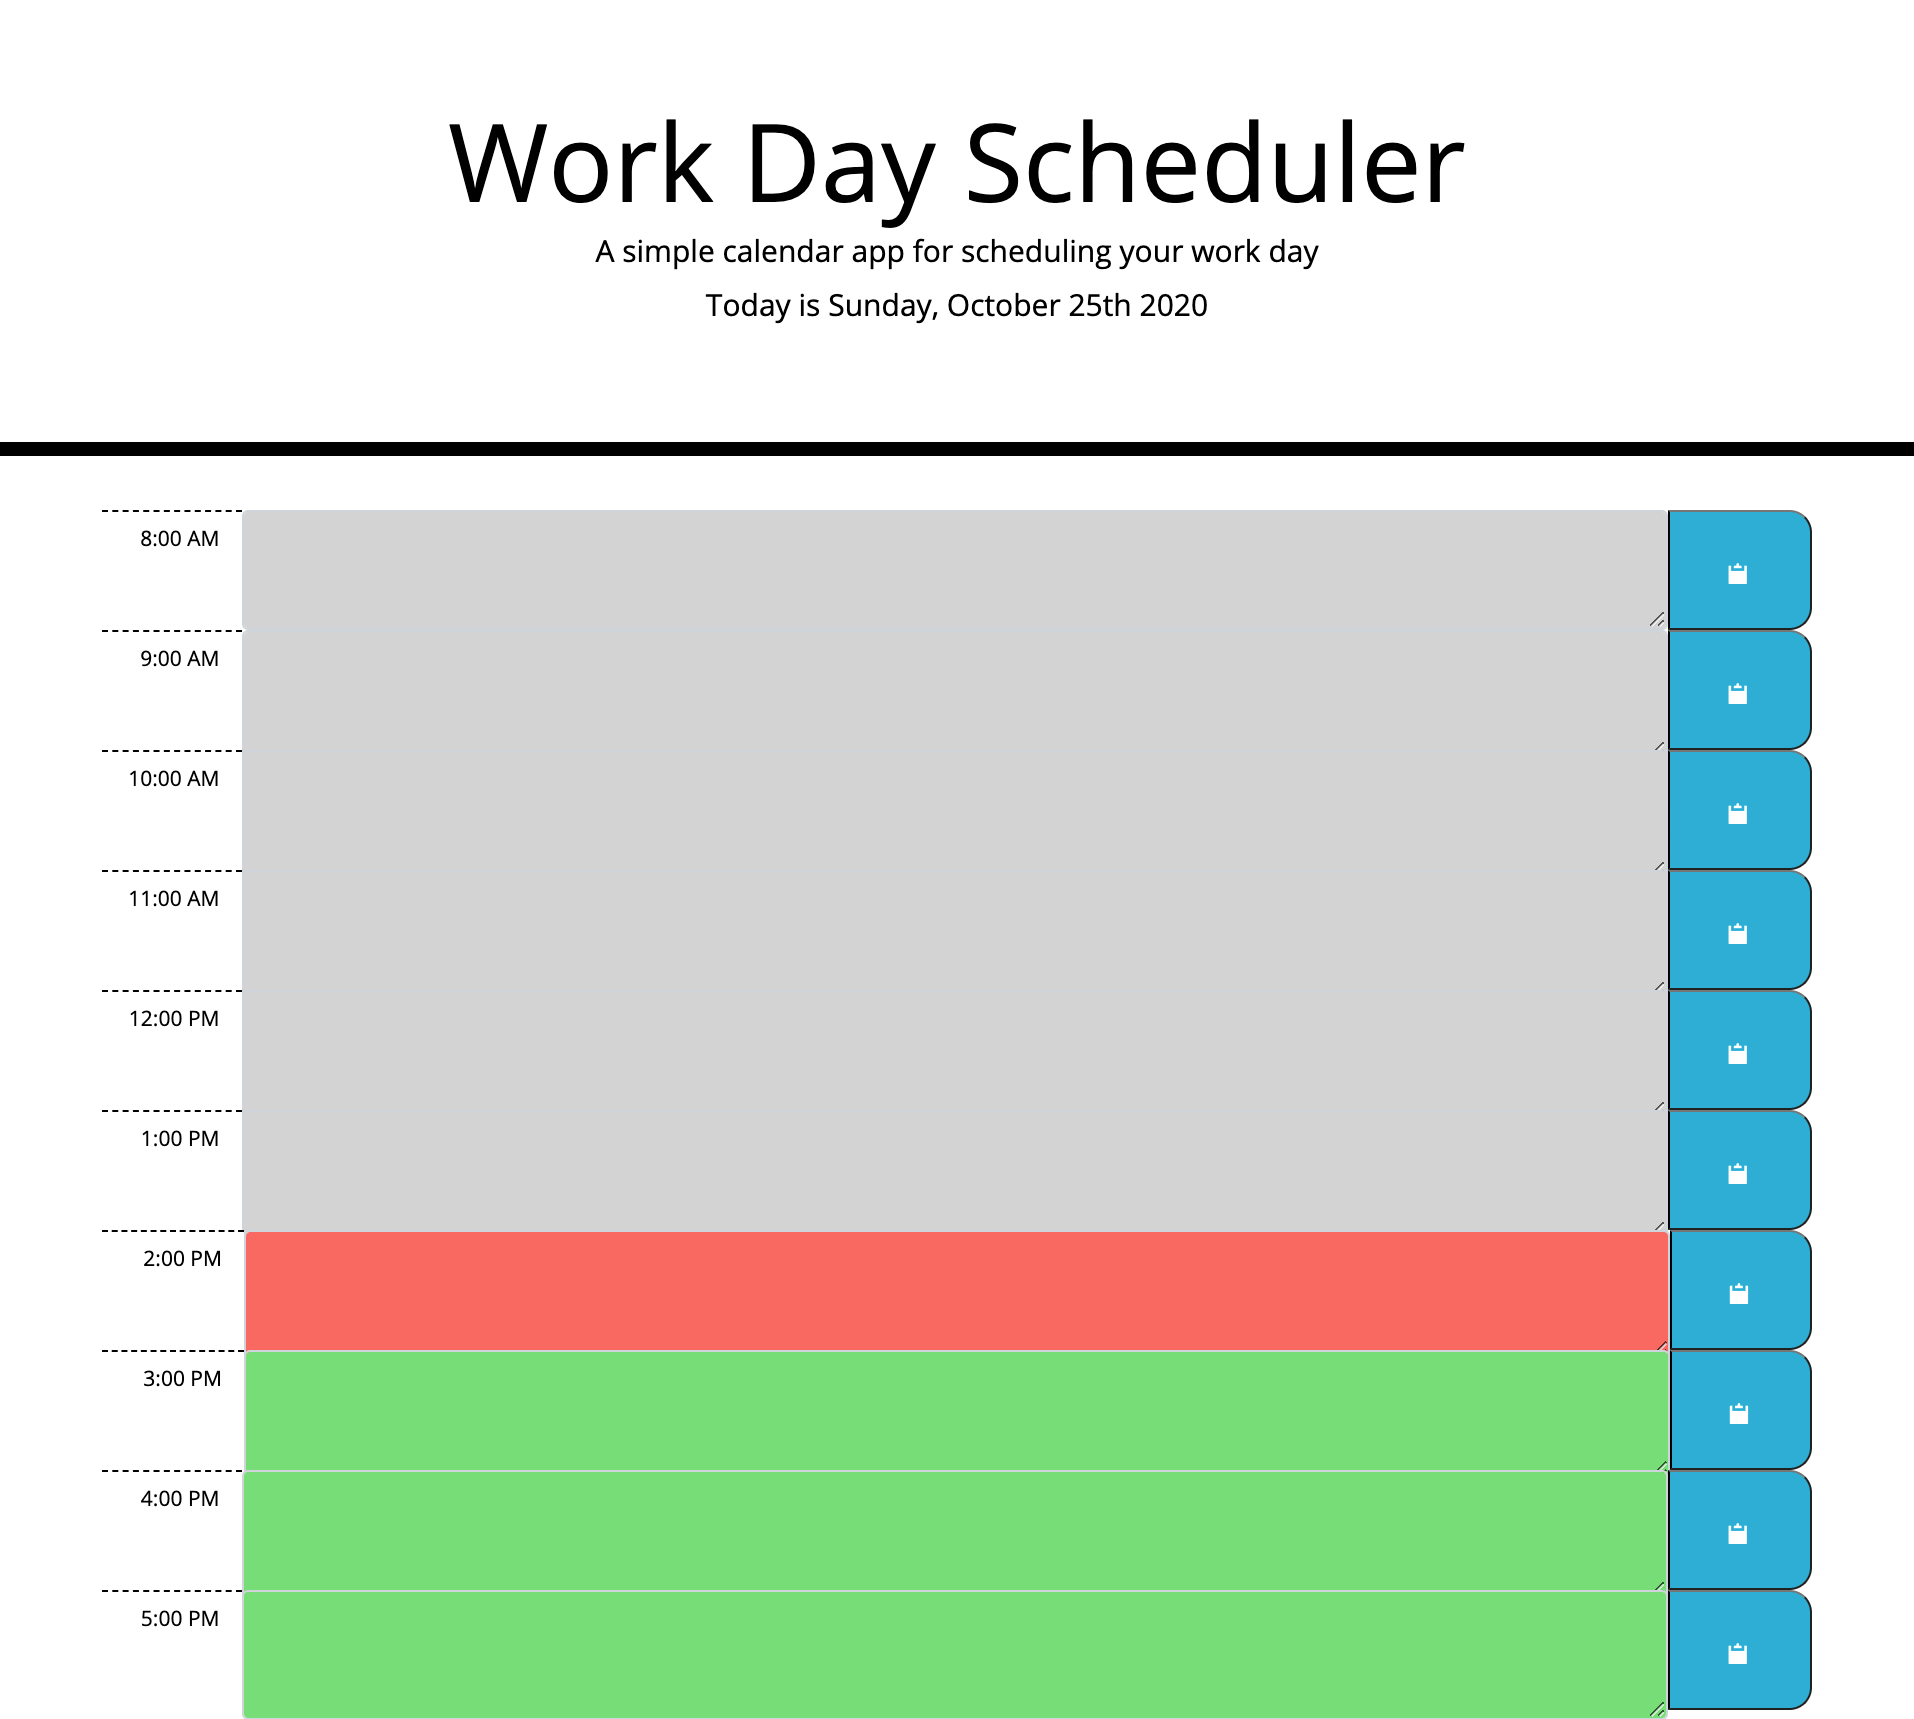
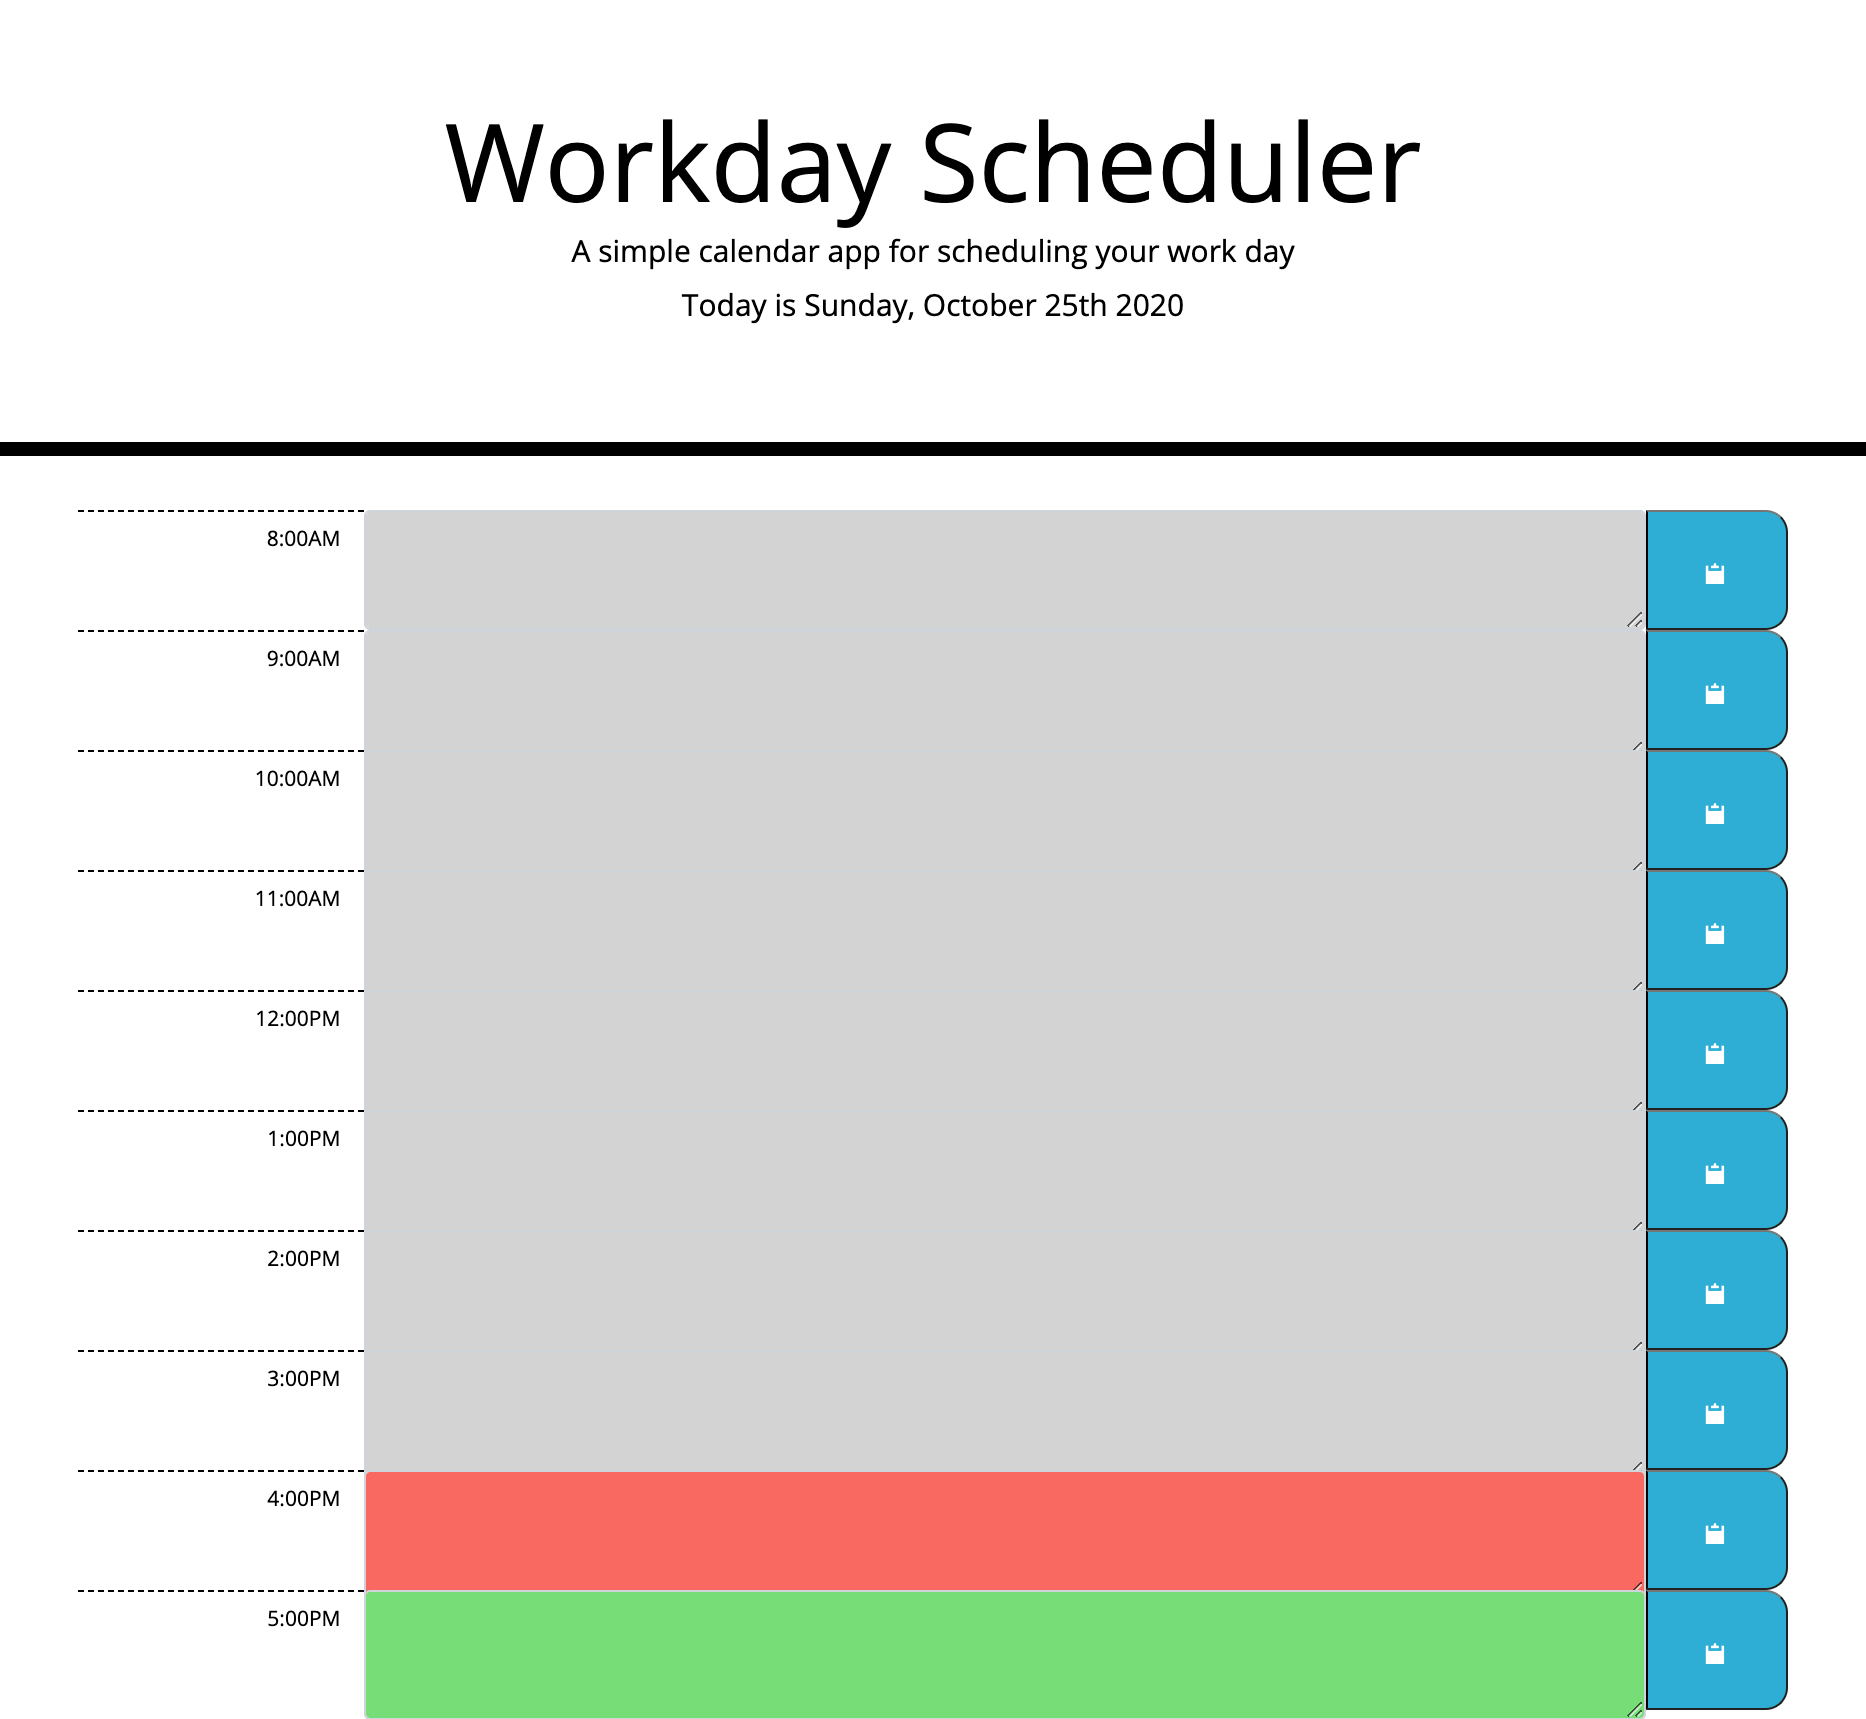
updated responsive settings

Changed region(s): [[0.0622, 0.2775, 0.9636, 1.0], [0.2176, 0.0617, 0.7771, 0.185]]

diff --git a/index.html b/index.html
@@ -25,54 +25,54 @@
 
   <div class="container">
     <div class="row">
-      <div class="col hour" id="eightOclock"></div>
-      <textarea id="eight" class="form-control col-10 description eightOclock"></textarea>
-      <button onclick="saveEight()" class="col saveBtn"><span class="oi oi-clipboard "></span></button>
+      <div class="col-3 col-md-2 hour" id="eightOclock"></div>
+      <textarea id="eight" class="form-control col-7 col-md-9 description eightOclock"></textarea>
+      <button onclick="saveEight()" class="col-2 col-md-1 saveBtn"><span class="oi oi-clipboard "></span></button>
     </div>
     <div class="row">
-      <div class="col hour" id="nineOclock"></div>
-      <textarea id="nine" rows="3" class="form-control col-10 description nineOclock"></textarea>
-      <button onclick="saveNine()" class="col saveBtn"><span class="oi oi-clipboard "></span></button>
+      <div class="col-3 col-md-2 hour" id="nineOclock"></div>
+      <textarea id="nine" rows="3" class="form-control col-7 col-md-9 description nineOclock"></textarea>
+      <button onclick="saveNine()" class="col-2 col-md-1 saveBtn"><span class="oi oi-clipboard "></span></button>
     </div>
     <div class="row">
-      <div class="col hour" id="tenOclock"></div>
-      <textarea id="ten" rows="3" class="form-control col-10 description tenOclock"></textarea>
-      <button onclick="saveTen()" class="col saveBtn"><span class="oi oi-clipboard "></span></button>
+      <div class="col-3 col-md-2 hour" id="tenOclock"></div>
+      <textarea id="ten" rows="3" class="form-control col-7 col-md-9 description tenOclock"></textarea>
+      <button onclick="saveTen()" class="col-2 col-md-1 saveBtn"><span class="oi oi-clipboard "></span></button>
     </div>
     <div class="row">
-      <div class="col hour" id="elevenOclock"></div>
-      <textarea id="eleven" rows="3" class="form-control col-10 description elevenOclock"></textarea>
-      <button onclick="saveEleven()" class="col saveBtn"><span class="oi oi-clipboard "></span></button>
+      <div class="col-3 col-md-2 hour" id="elevenOclock"></div>
+      <textarea id="eleven" rows="3" class="form-control col-7 col-md-9 description elevenOclock"></textarea>
+      <button onclick="saveEleven()" class="col-2 col-md-1 saveBtn"><span class="oi oi-clipboard "></span></button>
     </div>
     <div class="row">
-      <div class="col hour" id="twelveOclock"></div>
-      <textarea id="twelve" rows="3" class="form-control col-10 description twelveOclock"></textarea>
-      <button onclick="saveTwelve()" class="col saveBtn"><span class="oi oi-clipboard "></span></button>
+      <div class="col-3 col-md-2 hour" id="twelveOclock"></div>
+      <textarea id="twelve" rows="3" class="form-control col-7 col-md-9 description twelveOclock"></textarea>
+      <button onclick="saveTwelve()" class="col-2 col-md-1 saveBtn"><span class="oi oi-clipboard "></span></button>
     </div>
     <div class="row">
-      <div class="col hour" id="oneOclock"></div>
-      <textarea id="one" rows="3" class="form-control col-10 description oneOclock"></textarea>
-      <button onclick="saveOne()" class="col saveBtn"><span class="oi oi-clipboard "></span></button>
+      <div class="col-3 col-md-2 hour" id="oneOclock"></div>
+      <textarea id="one" rows="3" class="form-control col-7 col-md-9 description oneOclock"></textarea>
+      <button onclick="saveOne()" class="col-2 col-md-1 saveBtn"><span class="oi oi-clipboard "></span></button>
     </div>
     <div class="row">
-      <div class="col-1 hour" id="twoOclock"></div>
-      <textarea id="two" rows="3" class="form-control col-10 description twoOclock"></textarea>
-      <button onclick="saveTwo()" class="col saveBtn"><span class="oi oi-clipboard "></span></button>
+      <div class="col-3 col-md-2 hour" id="twoOclock"></div>
+      <textarea id="two" rows="3" class="form-control col-7 col-md-9 description twoOclock"></textarea>
+      <button onclick="saveTwo()" class="col-2 col-md-1 saveBtn"><span class="oi oi-clipboard "></span></button>
     </div>
     <div class="row">
-      <div class="col-1 hour" id="threeOclock"></div>
-      <textarea id="three" rows="3" class="form-control col-10 description threeOclock"></textarea>
-      <button onclick="saveThree()" class="col saveBtn"><span class="oi oi-clipboard "></span></button>
+      <div class="col-3 col-md-2 hour" id="threeOclock"></div>
+      <textarea id="three" rows="3" class="form-control col-7 col-md-9 description threeOclock"></textarea>
+      <button onclick="saveThree()" class="col-2 col-md-1 saveBtn"><span class="oi oi-clipboard "></span></button>
     </div>
     <div class="row">
-      <div class="col hour" id="fourOclock"></div>
-      <textarea id="four" rows="3" class="form-control col-10 description fourOclock"></textarea>
-      <button onclick="saveFour()" class="col saveBtn"><span class="oi oi-clipboard "></span></button>
+      <div class="col-3 col-md-2 hour" id="fourOclock"></div>
+      <textarea id="four" rows="3" class="form-control col-7 col-md-9 description fourOclock"></textarea>
+      <button onclick="saveFour()" class="col-2 col-md-1 saveBtn"><span class="oi oi-clipboard "></span></button>
     </div>
     <div class="row">
-      <div class="col hour" id="fiveOclock"></div>
-      <textarea id="five" rows="3" class="form-control col-10 description fiveOclock"></textarea>
-      <button onclick="saveFive()" class="col saveBtn"><span class="oi oi-clipboard "></span></button>
+      <div class="col-3 col-md-2 hour" id="fiveOclock"></div>
+      <textarea id="five" rows="3" class="form-control col-7 col-md-9 description fiveOclock"></textarea>
+      <button onclick="saveFive()" class="col-2 col-md-1 saveBtn"><span class="oi oi-clipboard "></span></button>
     </div>
   </div>
 

diff --git a/assets/script.js b/assets/script.js
@@ -4,16 +4,16 @@ currentDay = $("#currentDay")
 
 
 // set timestamps
-var eightTimestamp = $("#eightOclock").text(moment().hour(8).minute(0).format("h:mm A"));
-var nineTimestamp = $("#nineOclock").text(moment().hour(9).minute(0).format("h:mm A"));
-var tenTimestamp = $("#tenOclock").text(moment().hour(10).minute(0).format("h:mm A"));
-var elevenTimestamp = $("#elevenOclock").text(moment().hour(11).minute(0).format("h:mm A"));
-var twelveTimestamp = $("#twelveOclock").text(moment().hour(12).minute(0).format("h:mm A"));
-var oneTimestamp = $("#oneOclock").text(moment().hour(13).minute(0).format("h:mm A"));
-var twoTimestamp = $("#twoOclock").text(moment().hour(14).minute(0).format("h:mm A"));
-var threeTimestamp = $("#threeOclock").text(moment().hour(15).minute(0).format("h:mm A"));
-var fourTimestamp = $("#fourOclock").text(moment().hour(16).minute(0).format("h:mm A"));
-var fiveTimestamp = $("#fiveOclock").text(moment().hour(17).minute(0).format("h:mm A"));
+var eightTimestamp = $("#eightOclock").text(moment().hour(8).minute(0).format("h:mmA"));
+var nineTimestamp = $("#nineOclock").text(moment().hour(9).minute(0).format("h:mmA"));
+var tenTimestamp = $("#tenOclock").text(moment().hour(10).minute(0).format("h:mmA"));
+var elevenTimestamp = $("#elevenOclock").text(moment().hour(11).minute(0).format("h:mmA"));
+var twelveTimestamp = $("#twelveOclock").text(moment().hour(12).minute(0).format("h:mmA"));
+var oneTimestamp = $("#oneOclock").text(moment().hour(13).minute(0).format("h:mmA"));
+var twoTimestamp = $("#twoOclock").text(moment().hour(14).minute(0).format("h:mmA"));
+var threeTimestamp = $("#threeOclock").text(moment().hour(15).minute(0).format("h:mmA"));
+var fourTimestamp = $("#fourOclock").text(moment().hour(16).minute(0).format("h:mmA"));
+var fiveTimestamp = $("#fiveOclock").text(moment().hour(17).minute(0).format("h:mmA"));
 
 
 // when the save buttons are clicked

diff --git a/README.md b/README.md
@@ -1,5 +1,5 @@
 # WORKDAY SCHEDULER
-This calendar application helps users manage time more efficiently by allowing them to save events for each hour of the day. The calendar features time blocks for standard business hours that are color-coded to indicate whether the time block is in the past (gray), present (red), or future (green). Click on a time block's text area to input your task. Then click on the blue "save" button for that time block, and the saved task will persist until you delete your text and resave the time block. This app will run in the browser and feature dynamically updated HTML and CSS powered by jQuery.
+This calendar application helps users manage time more efficiently by allowing them to save events for each hour of the day. The calendar features time blocks for standard business hours that are color-coded to indicate whether the time block is in the past (gray), present (red), or future (green). Click on a time block's text area to input your task. Then click on the blue "save" button for that time block, and the saved task will persist until you delete your text and resave the time block. This app is best run in a browser on your desktop and feature dynamically updated HTML and CSS powered by jQuery.
 
 ## Deployment
 Coding Quiz is published at https://kristinmoon.github.io/workday-scheduler/.
